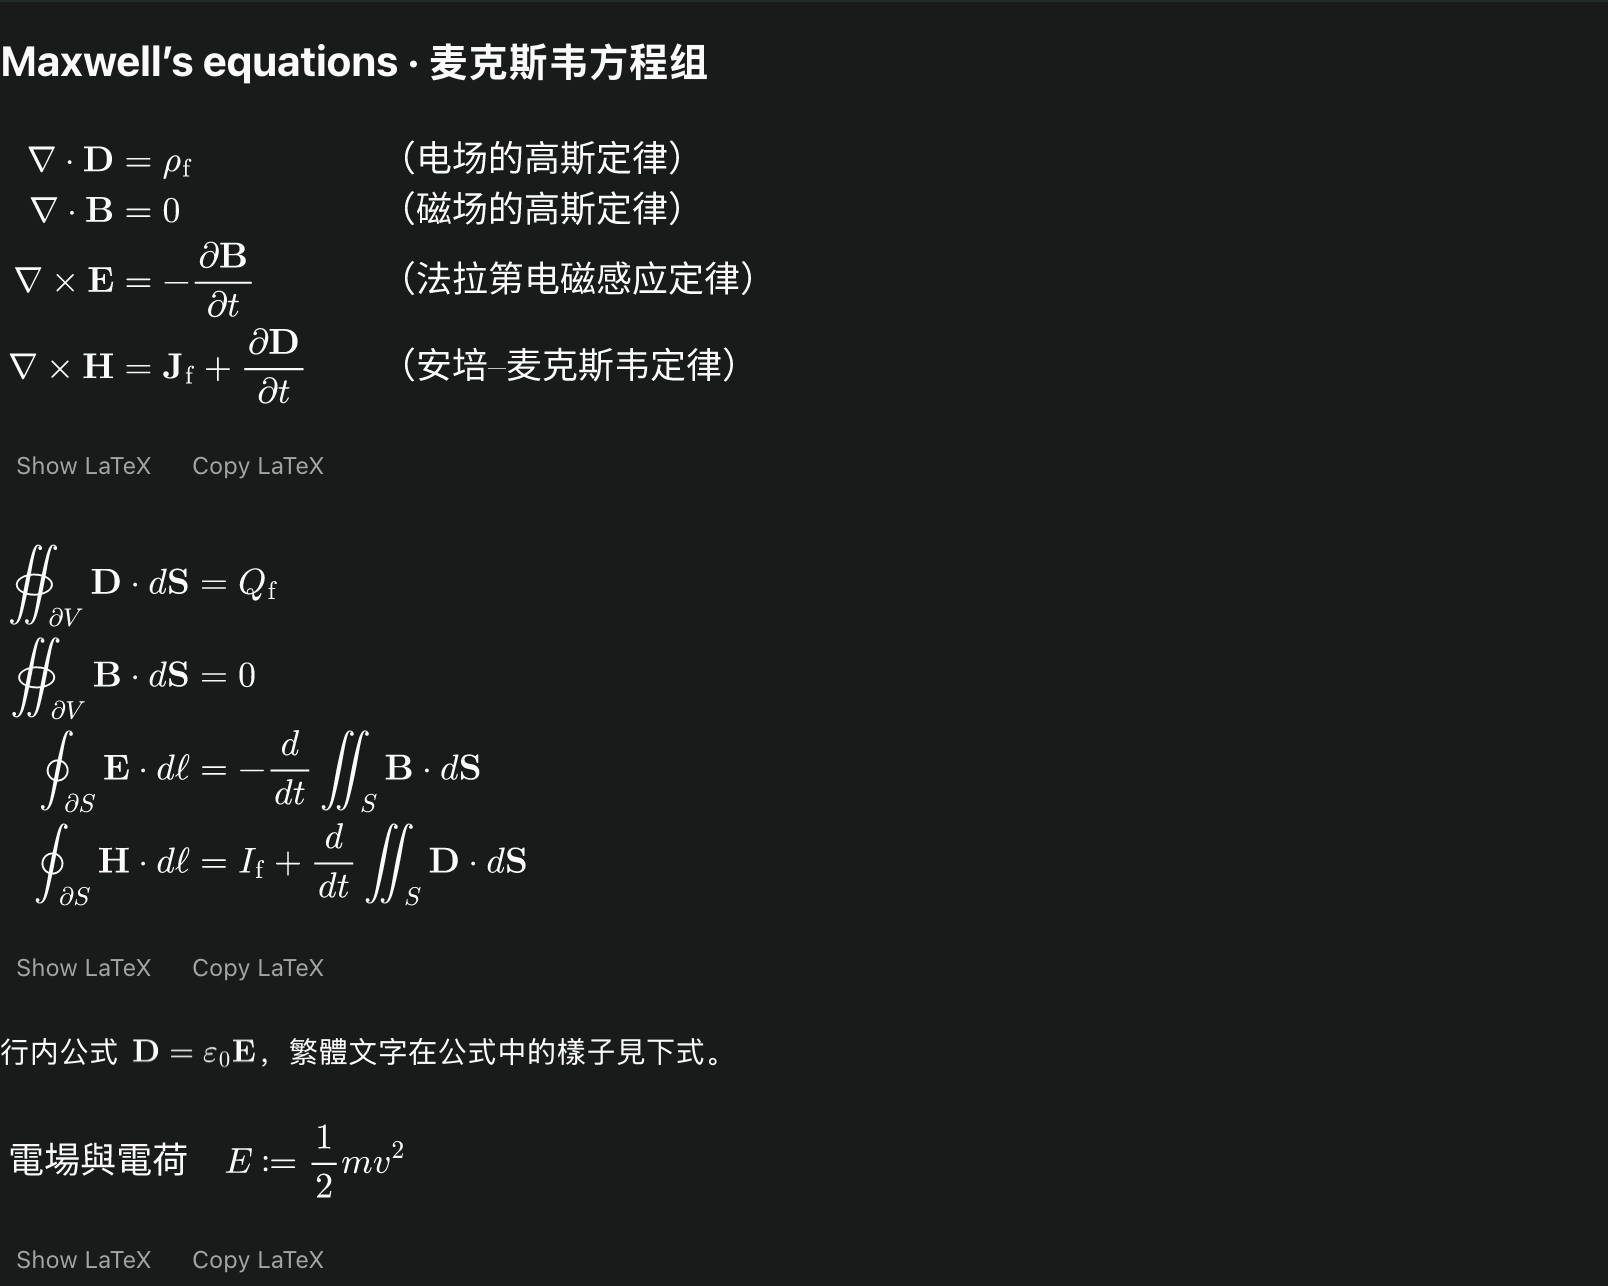
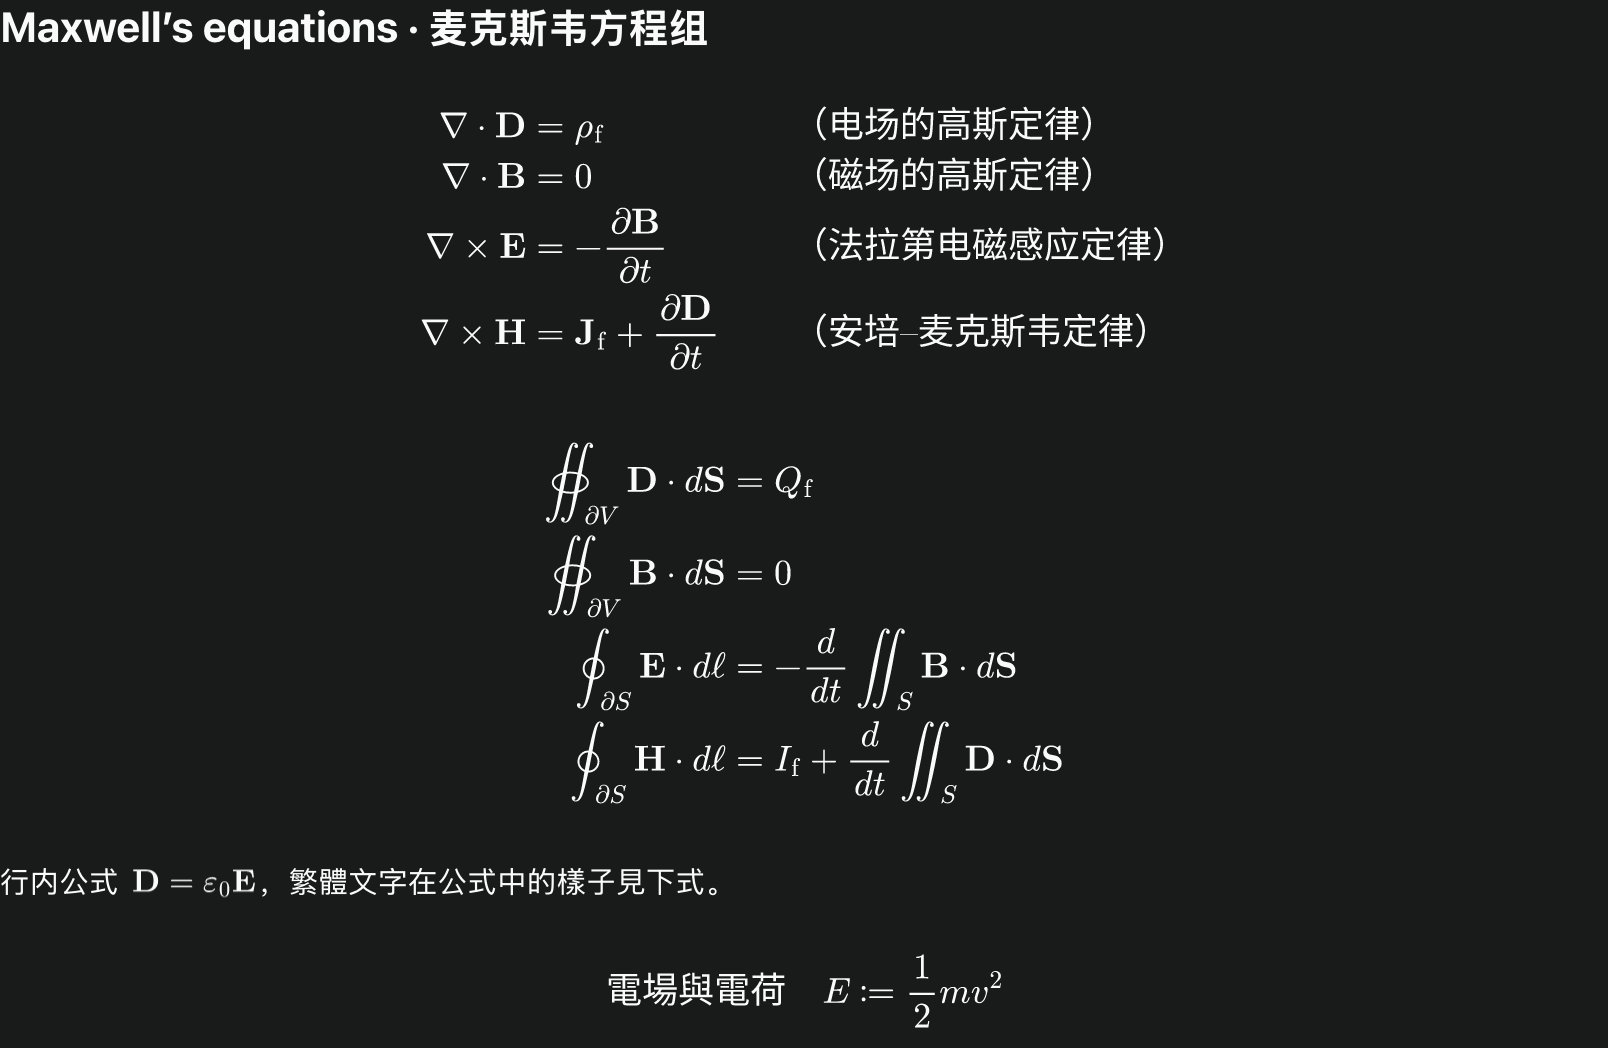
Center display math and reveal LaTeX actions on hover

diff --git a/client/message.tsx b/client/message.tsx
@@ -54,31 +54,57 @@ function useFormula(tex: string, theme: PluginTheme, size: number, display: bool
 }
 export function Formula({ tex, raw, theme, compact }: { tex: string; raw: string; theme: PluginTheme; compact: boolean }) {
   const [source, setSource] = useState(false);
+  const [hovered, setHovered] = useState(false);
+  const [opened, setOpened] = useState(false);
   const copy = useCopy();
   const { valid, query } = useFormula(tex, theme, 18, true, source);
   const result = query.data;
+  const image = !source && result?.ok ? result : undefined;
   const error = !valid ? "Formula input exceeds render limits"
     : query.isError ? "Could not reach the formula renderer"
     : result && !result.ok ? result.reason : null;
   const retryable = valid && !query.isFetching && (query.isError || result?.ok === false && result.code === "renderer-unavailable");
+  const showActions = hovered || opened;
   const rawView = <Text selectable style={{ color: theme.colors.foreground, fontFamily: "monospace", fontSize: 14, lineHeight: 22 }}>{raw}</Text>;
-  return <View testID="formula" style={{ gap: 6, minWidth: 0 }}>
-    <View accessibilityRole="image" accessibilityLabel={"Formula: " + tex}>
-      <ScrollView horizontal style={{ flexGrow: 0 }} contentContainerStyle={{ paddingVertical: 8, paddingHorizontal: 2 }}>
-        {!source && result?.ok
-          ? <FormulaImage key={result.uri} uri={result.uri} width={result.width} height={result.height} fallback={rawView} />
-          : rawView}
+  return <View testID="formula" style={{ gap: 6, minWidth: 0, zIndex: showActions ? 1 : 0 }}>
+    <View testID="formula-region"
+      onPointerEnter={event => { if (event.nativeEvent.pointerType === "mouse") setHovered(true); }}
+      onPointerLeave={event => { if (event.nativeEvent.pointerType === "mouse") setHovered(false); }}
+      style={{ alignSelf: "center", width: image ? image.width + 4 : "100%", maxWidth: "100%" }}>
+      <ScrollView horizontal style={{ flexGrow: 0 }}
+        contentContainerStyle={{ flexGrow: 1, justifyContent: "center", paddingVertical: 8, paddingHorizontal: 2 }}>
+        <Pressable testID="formula-trigger" accessibilityRole="button"
+          accessibilityLabel={"Formula: " + tex}
+          accessibilityHint="Show or hide LaTeX actions"
+          accessibilityState={{ expanded: showActions }}
+          style={{ flexShrink: 0 }}
+          onPress={() => { if (!hovered) setOpened(value => !value); }}>
+          {image
+            ? <FormulaImage key={image.uri} uri={image.uri} width={image.width} height={image.height} fallback={rawView} />
+            : rawView}
+        </Pressable>
       </ScrollView>
+      {showActions && <View testID="formula-actions" style={{
+        alignSelf: "center", flexDirection: "row", alignItems: "center", gap: 4,
+        backgroundColor: theme.colors.surface1, borderRadius: 6,
+        ...(hovered && !opened ? { position: "absolute", top: "100%", zIndex: 1 } : {}),
+      }}>
+        <Action label={source ? "Show formula" : "Show LaTeX"} onPress={() => setSource(value => !value)} theme={theme} compact={compact} />
+        <Action label="Copy LaTeX" onPress={() => { void copy(tex); }} theme={theme} compact={compact} />
+      </View>}
     </View>
-    <View testID="formula-actions" style={{ flexDirection: "row", alignItems: "center", flexWrap: "wrap", gap: 4 }}>
-      <Action label={source ? "Show formula" : "Show LaTeX"} onPress={() => setSource(v => !v)} theme={theme} compact={compact} />
-      <Action label="Copy LaTeX" onPress={() => { void copy(tex); }} theme={theme} compact={compact} />
-      {!source && error ?
-        <Text style={{ color: theme.colors.foregroundMuted, fontSize: 12 }}>{error} · Source preserved</Text> :
-        !source && query.isPending ? <Text style={{ color: theme.colors.foregroundMuted, fontSize: 12 }}>Rendering locally…</Text> : null}
-      {!source && retryable ?
-        <Action label="Retry" onPress={() => { void query.refetch(); }} theme={theme} compact={compact} /> : null}
-    </View>
+    {!source && (error || query.isPending || retryable) && <View style={{
+      flexDirection: "row", justifyContent: "center", flexWrap: "wrap", alignItems: "center", gap: 4,
+    }}>
+      {error
+        ? <Text style={{ color: theme.colors.foregroundMuted, fontSize: 12 }}>{error} · Source preserved</Text>
+        : query.isPending
+          ? <Text style={{ color: theme.colors.foregroundMuted, fontSize: 12 }}>Rendering locally…</Text>
+          : null}
+      {retryable
+        ? <Action label="Retry" onPress={() => { void query.refetch(); }} theme={theme} compact={compact} />
+        : null}
+    </View>}
   </View>;
 }
 

diff --git a/README.md b/README.md
@@ -2,7 +2,7 @@
 
 [简体中文](README.zh-CN.md) · [Releases](https://github.com/EviterLesRoses2/paseo-math-renderer-plus/releases)
 
-Math Renderer Plus typesets LaTeX in completed Paseo replies. It runs MathJax 4 on the Paseo daemon and sends formula images back to the client. Chinese labels such as `\text{电场强度}` use a bundled font. Formula rendering needs no external service, CDN, or system font.
+Math Renderer Plus typesets LaTeX in completed Paseo replies. It runs MathJax 4 on the Paseo daemon and sends formula images back to the client. Chinese labels such as `\text{电场强度}` use a bundled font. Formula rendering has been verified on a real iPhone in the native Paseo iOS app. It needs no external service, CDN, or system font.
 
 ![A Paseo test conversation displaying Maxwell's equations in Math Renderer Plus](images/desktop.png)
 
@@ -11,7 +11,7 @@ Math Renderer Plus typesets LaTeX in completed Paseo replies. It runs MathJax 4 
 Requires Paseo 0.13 or newer, with plugins enabled on the selected daemon. Node.js 22 or later and npm are required on that host to prepare a Git installation.
 
 ```sh
-paseo plugin install git:EviterLesRoses2/paseo-math-renderer-plus --ref v0.1.2
+paseo plugin install git:EviterLesRoses2/paseo-math-renderer-plus --ref v1.3
 paseo plugin ls math-renderer-plus
 ```
 
@@ -21,7 +21,7 @@ Enable one assistant-message math renderer per host. Running multiple timeline t
 
 Write inline math with `\(...\)` or `$...$`. Use `$$...$$`, `\[...\]`, or a fenced `math` block for display math. Formulas appear once the reply is complete.
 
-Block formulas have **Show LaTeX** and **Copy LaTeX** actions. Long formulas and tables scroll horizontally. Formulas inside Markdown tables render with the rest of the reply. A failed formula preserves the original source and gives the reason. The **Retry** action appears for temporary communication or renderer failures.
+Block formulas are centered. On desktop, hover over a formula to reveal **Show LaTeX** and **Copy LaTeX**. On iPhone, tap the formula to show or hide these actions. Long formulas and tables scroll horizontally. Formulas inside Markdown tables render with the rest of the reply. A failed formula preserves the original source and gives the reason. The **Retry** action appears for temporary communication or renderer failures.
 
 The bundled parser supports AMS, AMS CD, boldsymbol, mathtools, cases, cancel, centernot, braket, upgreek, extpfeil, gensymb, textmacros, and physics commands. It covers matrices, aligned equations, common calculus and physics notation, and closed surface and volume integrals. Chinese text uses Noto Sans CJK SC regular. Unavailable characters, custom macro definitions, external links and resources inside formulas, and oversized expressions fall back to source. Large replies can also keep Paseo's original Markdown view.
 

diff --git a/README.zh-CN.md b/README.zh-CN.md
@@ -2,7 +2,7 @@
 
 [English](README.md) · [发布版本](https://github.com/EviterLesRoses2/paseo-math-renderer-plus/releases)
 
-在 Paseo 会话中渲染助手回复里的 LaTeX 公式。Paseo 主机用 MathJax 4 生成图片，公式里的中文通过随插件提供的字体排版。渲染过程在主机上完成。
+在 Paseo 会话中渲染助手回复里的 LaTeX 公式。Paseo 主机用 MathJax 4 生成图片，公式里的中文通过随插件提供的字体排版。渲染过程在主机上完成，公式显示已通过 iPhone 原生 Paseo App 真机验证。
 
 ![Paseo 中的麦克斯韦方程组实测截图](images/desktop.png)
 
@@ -11,7 +11,7 @@
 需要 Paseo 0.13 或更新版本，并在目标主机上启用插件。通过 Git 安装时，主机需要 Node.js 22 或更新版本及 npm。
 
 ```sh
-paseo plugin install git:EviterLesRoses2/paseo-math-renderer-plus --ref v0.1.2
+paseo plugin install git:EviterLesRoses2/paseo-math-renderer-plus --ref v1.3
 paseo plugin ls math-renderer-plus
 ```
 
@@ -21,6 +21,6 @@ paseo plugin ls math-renderer-plus
 
 行内公式可用 `\(...\)` 或 `$...$`。块级公式可用 `$$...$$`、`\[...\]` 或 `math` 代码块。回复完成后会显示排版结果。
 
-可以查看和复制 LaTeX 源码，较宽的公式和表格可横向滚动，表格单元格里的公式也会排版。支持闭合曲面积分、矩阵、对齐和分段公式、常用微积分命令，以及 `\text{电场强度}` 等公式内中文。遇到未知命令、缺少字形或超限时，会显示原因并保留源码。
+块级公式居中显示。桌面端悬停在公式上可查看和复制 LaTeX，iPhone 端点按公式可展开或收起这些操作。较宽的公式和表格可横向滚动，表格单元格里的公式也会排版。支持闭合曲面积分、矩阵、对齐和分段公式、常用微积分命令，以及 `\text{电场强度}` 等公式内中文。遇到未知命令、缺少字形或超限时，会显示原因并保留源码。
 
 [验证记录](docs/verification.md)列出了测试过的客户端和场景。项目基于 [geoqiao 的 Math Renderer](https://github.com/geoqiao/paseo-stuff/tree/math-renderer-v0.1.0-beta.8/plugins/math-renderer)，采用 MIT 许可证。字体等依赖遵循各自的[许可证](THIRD_PARTY.md)。

diff --git a/docs/verification.md b/docs/verification.md
@@ -1,7 +1,9 @@
 # Verification
 
+The v1.3 release passed 105 automated tests. A Chrome test against a running Paseo daemon verified centered display formulas, hover actions without layout shift, clipboard copying, source toggling, keyboard activation, touch emulation, and horizontal scrolling at 390 px.
+
 The v0.1.2 regression suite passed 105 tests. It includes stretchy braces with Chinese labels, formula tables, long replies, isolated Markdown fallback, and bounded client request scheduling.
 
 The v0.1.0 suite passed 102 tests on macOS. It covers the original Maxwell equations, font metrics for Chinese labels, complete inline relations, math extensions, failure details, cache and renderer lifecycle. The client bundle passed the DOM-free and Hermes evaluation tests.
 
-The desktop test used Chrome and an isolated Paseo 0.17.0-beta.1 daemon. It verified four rendered images, the simplified and traditional glyphs in the two [light](../images/desktop.png) and [dark](../images/desktop-dark.png) screenshots, source visibility, exact clipboard copying of the two closed-integral commands and horizontal scrolling at a 390 px viewport. The native iOS and Android apps are awaiting device tests.
+The desktop test used Chrome and an isolated Paseo 0.17.0-beta.1 daemon. It verified four rendered images, the simplified and traditional glyphs in the two [light](../images/desktop.png) and [dark](../images/desktop-dark.png) screenshots, source visibility, exact clipboard copying of the two closed-integral commands and horizontal scrolling at a 390 px viewport. The user confirmed formula rendering on a real iPhone in Paseo’s native iOS app. Android device testing is pending.

diff --git a/OVERVIEW.md b/OVERVIEW.md
@@ -1,5 +1,5 @@
-Math Renderer Plus typesets inline and display LaTeX in completed assistant replies, including Chinese labels inside formulas. The Paseo daemon turns each expression into a PNG using MathJax and bundled fonts. Formula text and images travel between the daemon and the Paseo client. Rendering uses no external service.
+Math Renderer Plus displays inline and block LaTeX in completed Paseo replies, including Chinese labels inside formulas. Formula rendering has been verified on a real iPhone in the native Paseo iOS app. The Paseo host generates PNGs locally and sends them to the app for display.
 
-Requires Paseo 0.13 or newer with plugins enabled on the selected daemon. Git installation also needs Node.js 22 or later and npm on that host.
+Requires Paseo 0.13 or newer with plugins enabled on the selected host. Git installation also needs Node.js 22 or later and npm on that host.
 
-Block formulas can be scrolled horizontally, and their LaTeX can be viewed or copied. Unsupported commands, missing glyphs and size limits preserve the original source. Avoid enabling multiple plugins that replace assistant replies. The first release was verified on macOS in Paseo's desktop web UI. The native iOS and Android apps are awaiting device testing.
+Block formulas are centered. Hover over a formula on desktop or tap it on iPhone to reveal the actions for viewing and copying LaTeX. Wide formulas and tables scroll horizontally. Unsupported commands, missing glyphs, and size limits preserve the original source. Enable one assistant-message formula renderer per host.

diff --git a/OVERVIEW.zh-CN.md b/OVERVIEW.zh-CN.md
@@ -1,5 +1,5 @@
-在已完成的 Paseo 回复中渲染行内和块级 LaTeX 公式，支持公式内的中文标签。Paseo 主机使用 MathJax 和随插件提供的字体生成 PNG 图片。公式源码和图片在主机与 Paseo 客户端之间传输，渲染在主机本地完成。
+在已完成的 Paseo 回复中渲染行内和块级 LaTeX 公式，支持公式内的中文标签。公式显示已通过 iPhone 原生 Paseo App 真机验证。Paseo 主机在本地生成 PNG，然后发送到客户端显示。
 
 需要 Paseo 0.13 或更新版本，并在目标主机上启用插件。通过 Git 安装时，主机还需要 Node.js 22 或更新版本和 npm。
 
-较长的块级公式可以横向滚动，公式源码可查看或复制。遇到未知命令、缺少字形或超限时会保留原文。同一主机建议启用一个会替换助手回复的公式插件。首个版本已在 macOS 的 Paseo 桌面网页版验证，原生 iOS 和 Android 尚待真机验证。
+块级公式居中显示。桌面端将鼠标移到公式上，iPhone 端点按公式，即可查看和复制 LaTeX。较宽的公式和表格可以横向滚动。遇到未知命令、缺少字形或超限时保留原始公式。同一主机建议启用一个会改写助手回复的公式插件。

diff --git a/CHANGELOG.md b/CHANGELOG.md
@@ -1,5 +1,11 @@
 # Changelog
 
+## 1.3.0
+
+- Center display formulas while preserving horizontal scrolling.
+- Reveal source actions on hover, with a tap target for touch clients and a keyboard-accessible trigger.
+- Document formula rendering on a user-verified iPhone.
+
 ## 0.1.2
 
 - Allow nested SVG viewports used by stretchy braces inside a single formula image.
